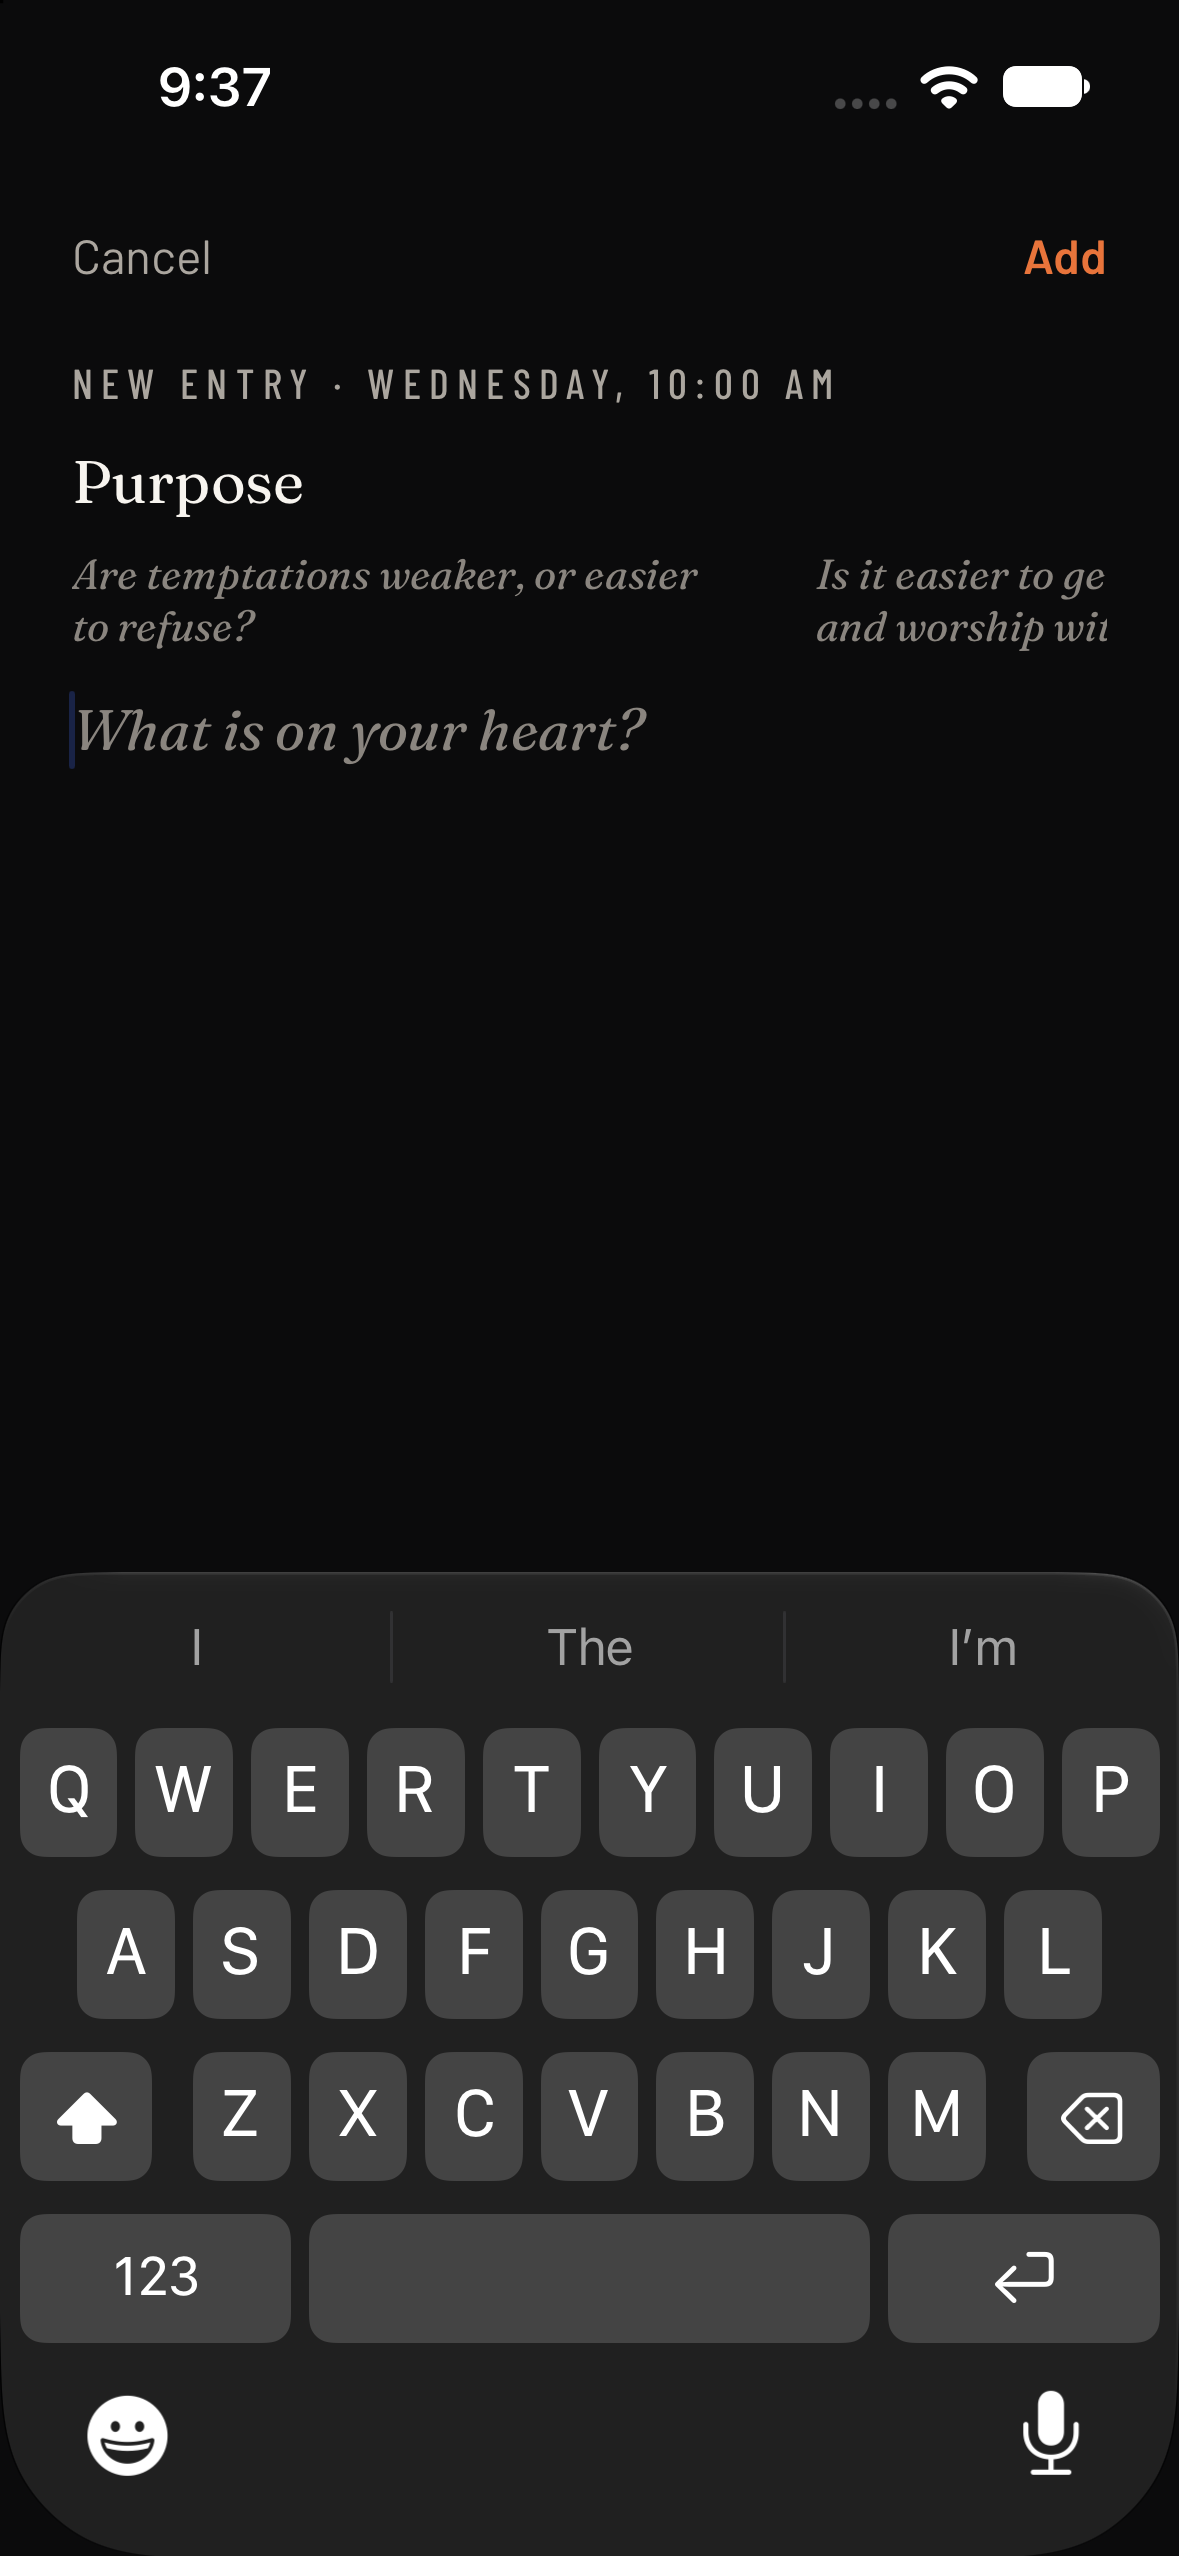
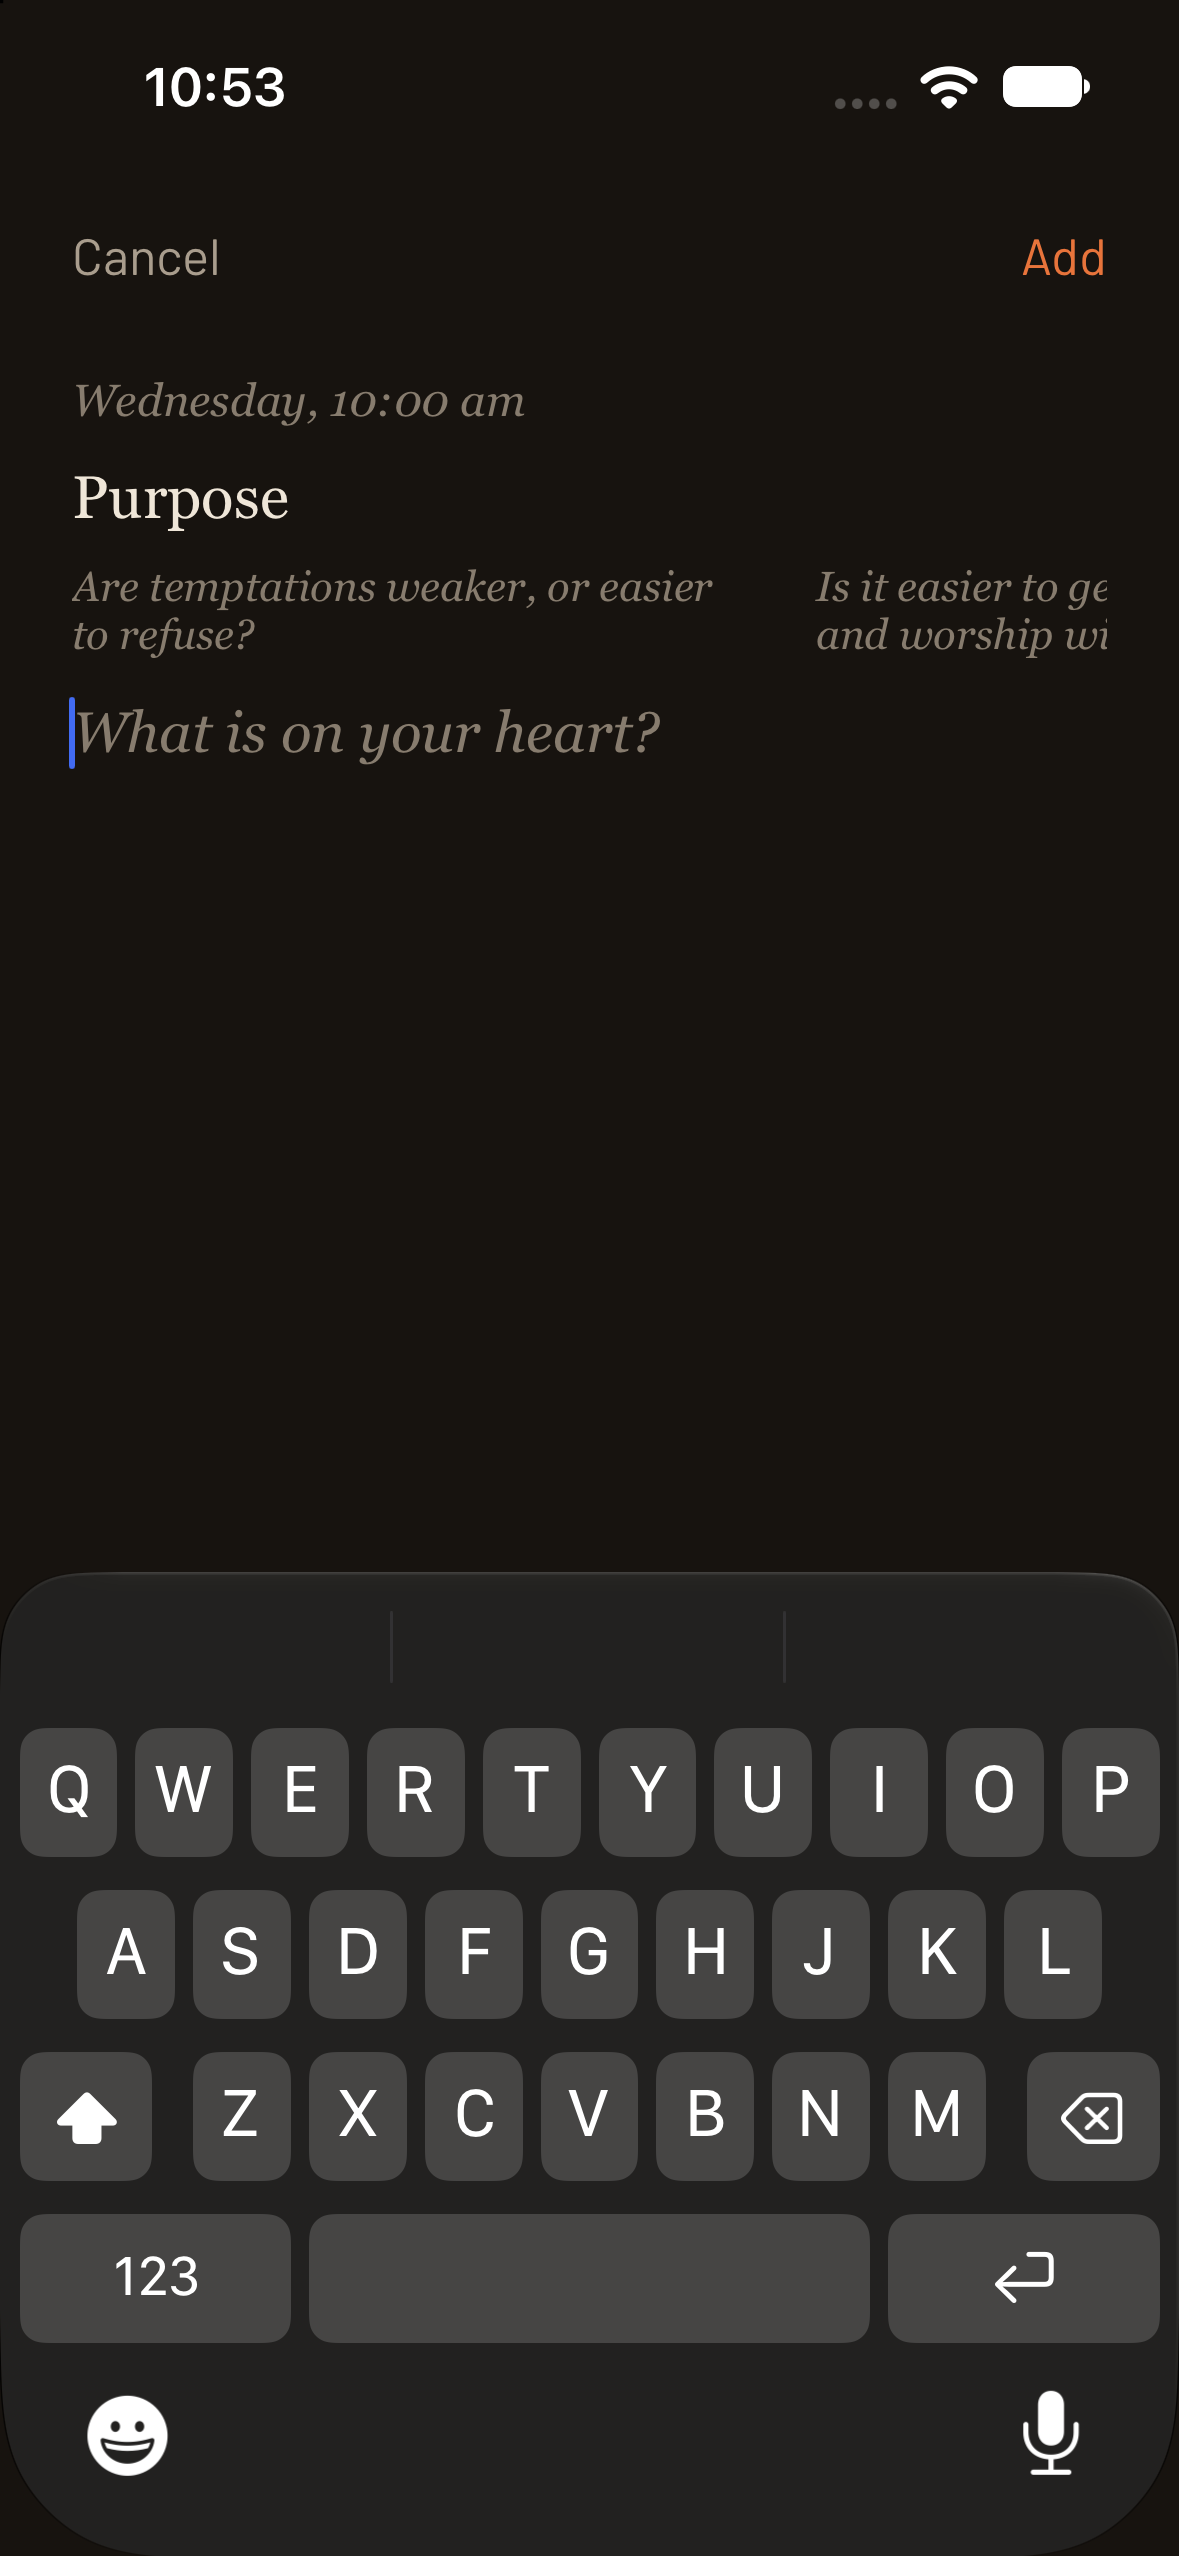
iOS: the journal gets its own page: warm dark in dark mode, cream paper in light mode, Georgia, plain buttons

diff --git a/ios/WeeklyDirection/ReflectView.swift b/ios/WeeklyDirection/ReflectView.swift
@@ -29,7 +29,7 @@ struct WeekPage: View {
                         Button(selecting ? "Cancel" : "Select") { Haptic.tick(); selecting.toggle(); picked = [] }
                     }
                 }
-                .caps(16).foregroundStyle(Theme.ac)
+                .jbutton().foregroundStyle(Theme.jac)
                 .padding(.horizontal, 22).frame(height: 52)
                 ScrollView {
                     if let w = store.week(weekId) {
@@ -42,7 +42,7 @@ struct WeekPage: View {
             if selecting {
                 Button { confirmDelete = true } label: {
                     Text(picked.isEmpty ? "Delete" : "Delete \(picked.count) \(picked.count == 1 ? "entry" : "entries")")
-                        .caps(16).foregroundStyle(.white)
+                        .jbutton().foregroundStyle(.white)
                         .frame(maxWidth: .infinity).frame(height: 54)
                         .background(Theme.danger.opacity(picked.isEmpty ? 0.4 : 1), in: RoundedRectangle(cornerRadius: Theme.r(16), style: .continuous))
                 }
@@ -50,7 +50,7 @@ struct WeekPage: View {
                 .padding(.horizontal, 24).padding(.bottom, 12)
             }
         }
-        .background(Theme.bg.ignoresSafeArea())
+        .background(Theme.jbg.ignoresSafeArea())
         .onAppear { if router.selectMode { selecting = true; router.selectMode = false; if store.isMock { picked = [1] } } }
         .alert("Delete \(picked.count) \(picked.count == 1 ? "entry" : "entries")? This can’t be undone.", isPresented: $confirmDelete) {
             Button("Delete", role: .destructive) {
@@ -70,19 +70,19 @@ struct WeekPage: View {
         let active = w.isActive
         let all = Journal.blocks(active ? w.liveRefl : (w.reflection.isEmpty ? w.liveRefl : w.reflection))
         let ents = all.filter { $0.q == nil }, qa = all.filter { $0.q != nil }
-        Eyebrow(text: Fmt.weekRange(w, store.settings), color: Theme.mu2, size: 12)
-        Text(w.focus).font(Theme.serif(34)).foregroundStyle(Theme.tx).padding(.top, 6)
+        Eyebrow(text: Fmt.weekRange(w, store.settings), color: Theme.jmu2, size: 12)
+        Text(w.focus).font(Theme.jserif(34)).foregroundStyle(Theme.jtx).padding(.top, 6)
         if let s = w.summary {
             VStack(alignment: .leading, spacing: 6) {
-                Eyebrow(text: "AI summary", color: Theme.mu2)
-                Text(s).font(Theme.serif(18)).lineSpacing(6).foregroundStyle(Theme.tx)
+                Eyebrow(text: "AI summary", color: Theme.jmu2)
+                Text(s).font(Theme.jserif(18)).lineSpacing(6).foregroundStyle(Theme.jtx)
             }
             .padding(.top, 16)
         }
         if w.verse != nil || w.verseRef != nil {
             VStack(alignment: .leading, spacing: 8) {
-                if let v = w.verse { Text(v).font(Theme.serifItalic(16)).lineSpacing(5).foregroundStyle(Theme.mu) }
-                if let r = w.verseRef { Eyebrow(text: r, color: Theme.mu2) }
+                if let v = w.verse { Text(v).font(Theme.jitalic(16)).lineSpacing(5).foregroundStyle(Theme.jmu) }
+                if let r = w.verseRef { Eyebrow(text: r, color: Theme.jmu2) }
             }
             .padding(.top, 16)
         }
@@ -91,26 +91,26 @@ struct WeekPage: View {
             ForEach(g) { e in entry(e, active: active) }
         }
         if !qa.isEmpty {
-            Text("Saturday review").font(Theme.serif(20)).foregroundStyle(Theme.tx).padding(.top, 36).padding(.bottom, 8)
+            Text("Saturday review").font(Theme.jserif(20)).foregroundStyle(Theme.jtx).padding(.top, 36).padding(.bottom, 8)
             ForEach(qa) { e in
                 VStack(alignment: .leading, spacing: 6) {
-                    Text(e.q ?? "").font(Theme.serifItalic(17)).foregroundStyle(Theme.mu)
-                    Text(e.x).font(Theme.serif(18)).lineSpacing(6).foregroundStyle(Theme.tx)
+                    Text(e.q ?? "").font(Theme.jitalic(17)).foregroundStyle(Theme.jmu)
+                    Text(e.x).font(Theme.jserif(18)).lineSpacing(6).foregroundStyle(Theme.jtx)
                 }
                 .padding(.top, 14)
             }
         }
         if ents.isEmpty && qa.isEmpty {
-            Text(active ? "Nothing yet this week." : "Nothing written this week.").font(Theme.serifItalic(17)).foregroundStyle(Theme.mu2).padding(.top, 30)
+            Text(active ? "Nothing yet this week." : "Nothing written this week.").font(Theme.jitalic(17)).foregroundStyle(Theme.jmu2).padding(.top, 30)
         }
         HStack {
             Spacer()
             if active {
                 Button { router.cover = .write } label: {
-                    HStack(spacing: 7) { Image(systemName: "pencil.line").font(.system(size: 15)); Text("Write") }.foregroundStyle(Theme.ac)
+                    HStack(spacing: 7) { Image(systemName: "pencil.line").font(.system(size: 15)); Text("Write") }.foregroundStyle(Theme.jac)
                 }
             } else {
-                Button("Open week") { vision = true }.foregroundStyle(Theme.mu)
+                Button("Open week") { vision = true }.foregroundStyle(Theme.jmu)
             }
         }
         .font(Theme.ui(15)).buttonStyle(.plain).padding(.top, 34)
@@ -132,9 +132,9 @@ struct WeekPage: View {
         for i in 0..<7 { let x = s0.addingTimeInterval(Double(i) * 86400); dates[Fmt.dowl[Rules.weekday(x)]] = x }
         let today = active && d == Fmt.dowl[Rules.weekday(Now.date)]
         return HStack(alignment: .firstTextBaseline) {
-            Text(today ? "Today" : d ?? "Notes").font(Theme.serif(20)).foregroundStyle(Theme.tx)
+            Text(today ? "Today" : d ?? "Notes").font(Theme.jserif(20)).foregroundStyle(Theme.jtx)
             Spacer()
-            if let d, let x = dates[d] { Eyebrow(text: (today ? d + " · " : "") + Fmt.date(x), color: Theme.mu2, size: 12) }
+            if let d, let x = dates[d] { Eyebrow(text: (today ? d + " · " : "") + Fmt.date(x), color: Theme.jmu2, size: 12) }
         }
         .padding(.top, 36)
     }
@@ -143,17 +143,17 @@ struct WeekPage: View {
         HStack(alignment: .top, spacing: 14) {
             if selecting {
                 ZStack {
-                    Circle().stroke(picked.contains(e.i) ? Theme.ac : Theme.mu2, lineWidth: 1.5)
+                    Circle().stroke(picked.contains(e.i) ? Theme.jac : Theme.jmu2, lineWidth: 1.5)
                     if picked.contains(e.i) {
-                        Circle().fill(Theme.ac)
+                        Circle().fill(Theme.jac)
                         Image(systemName: "checkmark").font(.system(size: 10, weight: .bold)).foregroundStyle(Theme.onAc)
                     }
                 }
                 .frame(width: 22, height: 22).padding(.top, 2)
             }
             VStack(alignment: .leading, spacing: 6) {
-                if let t = e.t { Text(t).font(Theme.serifItalic(13)).foregroundStyle(Theme.mu2) }
-                Text(e.x).font(Theme.serif(18)).lineSpacing(8).foregroundStyle(Theme.tx)
+                if let t = e.t { Text(t).font(Theme.jitalic(13)).foregroundStyle(Theme.jmu2) }
+                Text(e.x).font(Theme.jserif(18)).lineSpacing(8).foregroundStyle(Theme.jtx)
             }
         }
         .fullWidth()
@@ -243,13 +243,8 @@ struct EntryEditor: View {
                 Button(entry == nil ? "Add" : "Save") { save(); dismiss() }.jbutton().foregroundStyle(Theme.jac)
             }
             .frame(height: 52)
-            if Theme.journal != nil {
-                Text(entry == nil ? Fmt.stamp(opened) : (blk?.d.map { "\($0), \(blk?.t ?? "")" } ?? "Edit entry"))
-                    .font(Theme.jitalic(15)).foregroundStyle(Theme.jmu2).padding(.top, 14)
-            } else {
-            Eyebrow(text: entry == nil ? "New entry · \(Fmt.stamp(opened))" : "Edit entry" + (blk?.d.map { " · \($0), \(blk?.t ?? "")" } ?? ""),
-                    color: Theme.jmu, size: 14).padding(.top, 8)
-            }
+            Text(entry == nil ? Fmt.stamp(opened) : (blk?.d.map { "\($0), \(blk?.t ?? "")" } ?? "Edit entry"))
+                .font(Theme.jitalic(15)).foregroundStyle(Theme.jmu2).padding(.top, 14)
             Text(w?.focus ?? "").font(Theme.jserif(20)).foregroundStyle(Theme.jtx).padding(.top, 12)
             if entry == nil, !prompts.isEmpty {
                 ScrollView(.horizontal) {
@@ -265,7 +260,7 @@ struct EntryEditor: View {
                 .accessibilityLabel("This week's questions")
             }
             TextEditor(text: $text)
-                .font(Theme.jserif(19)).lineSpacing(Theme.journal != nil ? 10 : 8).foregroundStyle(Theme.jtx)
+                .font(Theme.jserif(19)).lineSpacing(10).foregroundStyle(Theme.jtx)
                 .scrollContentBackground(.hidden)
                 .focused($focused)
                 .padding(.horizontal, -5).padding(.top, 6)

diff --git a/ios/WeeklyDirection/Theme.swift b/ios/WeeklyDirection/Theme.swift
@@ -12,17 +12,17 @@ enum Theme {
     static let style: Int = Mock.enabled ? UserDefaults.standard.integer(forKey: "MockStyle") : 0
     /// Calmer stats preview (-MockStats 1, sample data only): a design finding, not approved.
     static let statsV2: Bool = Mock.enabled && UserDefaults.standard.integer(forKey: "MockStats") == 1
-    /// Journal feel preview (-MockJournal paper | warm, sample data only): a design finding, not approved.
-    /// paper = the web app's cream paper page (use with -MockTheme light); warm = brown-black page set in Georgia.
-    static let journal: String? = Mock.enabled ? UserDefaults.standard.string(forKey: "MockJournal") : nil
-    static var jbg: Color { journal == "paper" ? Color(hex: 0xF3EEE4) : journal == "warm" ? Color(hex: 0x17130F) : bg }
-    static var jtx: Color { journal == "paper" ? Color(hex: 0x1F1B16) : journal == "warm" ? Color(hex: 0xEFE6D8) : tx }
-    static var jmu: Color { journal == "paper" ? Color(hex: 0x6B6257) : journal == "warm" ? Color(hex: 0xA99D8D) : mu }
-    static var jmu2: Color { journal == "paper" ? Color(hex: 0x8C8273) : journal == "warm" ? Color(hex: 0x877C6E) : mu2 }
-    static var jrule: Color { journal == "paper" ? Color(hex: 0xE0D7C7) : journal == "warm" ? Color(hex: 0x2B251E) : rule }
-    static var jac: Color { journal == "paper" ? Color(hex: 0x8A2E22) : ac }
-    static func jserif(_ size: CGFloat) -> Font { journal == "warm" ? .custom("Georgia", size: size) : serif(size) }
-    static func jitalic(_ size: CGFloat) -> Font { journal == "warm" ? .custom("Georgia-Italic", size: size) : serifItalic(size) }
+    /// The journal's own page (Eddie, Nov 9 2026): a warm brown-black page in dark mode, the web app's cream paper in
+    /// light mode, set in Georgia with plain-word buttons and italic stamps. Used by the journal list, the week page
+    /// and the editor only.
+    static let jbg = dyn(0x17130F, 0xF3EEE4)
+    static let jtx = dyn(0xEFE6D8, 0x1F1B16)
+    static let jmu = dyn(0xA99D8D, 0x6B6257)
+    static let jmu2 = dyn(0x877C6E, 0x8C8273)
+    static let jrule = dyn(0x2B251E, 0xE0D7C7)
+    static let jac = dyn(0xE8743B, 0x8A2E22)
+    static func jserif(_ size: CGFloat) -> Font { .custom("Georgia", size: size) }
+    static func jitalic(_ size: CGFloat) -> Font { .custom("Georgia-Italic", size: size) }
     static func r(_ x: CGFloat) -> CGFloat { style > 0 ? 0 : x }
     static var pill: AnyShape { style > 0 ? AnyShape(Rectangle()) : AnyShape(Capsule()) }
     static var dot: AnyShape { style > 0 ? AnyShape(Rectangle()) : AnyShape(Circle()) }
@@ -160,10 +160,8 @@ extension View {
     func caps(_ size: CGFloat = 16) -> some View {
         font(.custom("BarlowCondensed-SemiBold", size: size)).textCase(.uppercase).tracking(size * 0.11)
     }
-    /// a button inside the journal: plain words when a journal feel is being previewed, caps otherwise
-    @ViewBuilder func jbutton(_ size: CGFloat = 16) -> some View {
-        if Theme.journal != nil { font(Theme.ui(size + 1)) } else { caps(size) }
-    }
+    /// a button inside the journal: plain words, not caps
+    func jbutton(_ size: CGFloat = 16) -> some View { font(Theme.ui(size + 1)) }
     /// habit name
     func rowTitle() -> some View { caps(17) }
     /// full-width, leading-aligned content: nothing in the app is centered in a narrow column

diff --git a/ios/docs/PROGRESS.md b/ios/docs/PROGRESS.md
@@ -1,6 +1,6 @@
 # Weekly Direction iOS — progress log
 
-**Current: dictation made instant (built, untested on device); waiting for Eddie to pick from the stats / journal / prayer-icon findings in docs/design/findings/2026-11-09-stats-journal-prayer.** Eddie has the app running on his phone (real data reads, Nov 9). Nothing pushed (no git credentials in the Claude shell).
+**Current: dictation made instant (built, untested on device); journal page built (warm in dark, paper in light); waiting for Eddie's call on the calmer stats and the prayer icon, findings in docs/design/findings/2026-11-09-stats-journal-prayer.** Eddie has the app running on his phone (real data reads, Nov 9). Nothing pushed (no git credentials in the Claude shell).
 
 ## Polish pass (Nov 9, evening)
 - Habit names now match the web: Barlow Regular 16.5, no extra tracking (was Medium 18 + tracking); meta Barlow Condensed 13.
@@ -12,6 +12,7 @@
 - Mic-first layout (Eddie, Nov 9): tab bar is This Week, Journal, mic (raised, records from any screen), Prayer, Progress. This Week shows the latest thought under the habits. Reflect is `JournalList.swift`: this week's entries newest first, then earlier weeks, Write at the top. The old journal card, the Journal | Prayer switch and the mic dock are removed; `-OpenScreen reflect-past` is gone. Layout only: entries are read and written as before. Starting a recording no longer switches tabs.
 - Not verified: recording from the centre mic on a device; the "Transcribing… / N waiting · Retry" line in its new places (This Week above the latest thought, top of Journal).
 - Dictation (Nov 9, late): the recording space is an overlay (0.16 s fade, orb grows from the tab mic), not a full-screen cover. Finishing closes it at once; transcription runs behind (`Recorder.sending`), the latest-thought strip shows the on-device words as "Just now · transcribing" until the real text lands, and a new recording can start meanwhile. Audio session and recorder set-up run off the main thread; live words start 0.35 s after the screen opens. Not verified on a device: any of it (sample data records nothing).
+- Journal page (Eddie, Nov 9: "paper for light mode, not dark"): the journal list, week page and editor use their own page: warm brown-black in dark mode, the web's cream paper in light mode, Georgia throughout, plain-word buttons, italic stamps (`Theme.j*`). Georgia in light mode too is Claude's call (the paper mockup he saw was Fraunces); one line to switch back.
 - Previous state: run DAY-2026-11-09 DONE.
 
 ## Run DAY-2026-11-09 (see docs/runs/DAY-2026-11-09.md)
